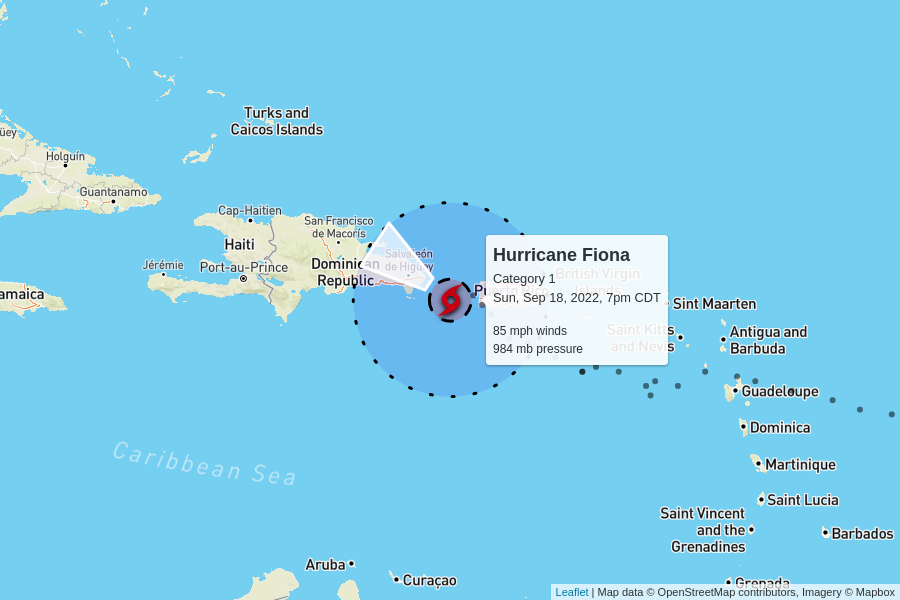
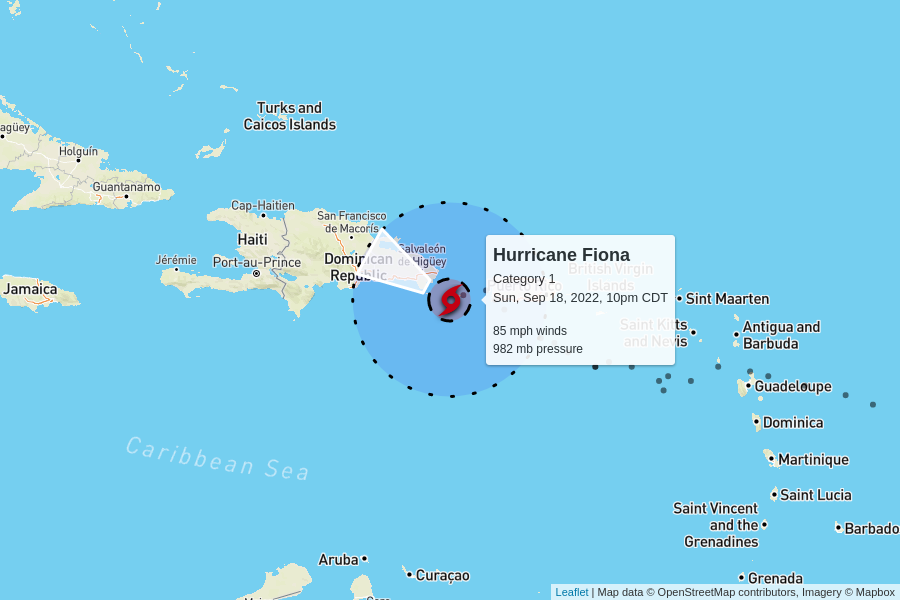
automatic update

diff --git a/docs/index.html b/docs/index.html
@@ -100,7 +100,7 @@
         <td colspan="6" class="storm category-1" >
           <h2>
             Hurricane Fiona - Category 1
-            <p class="updated">last updated <span data-time>2022-09-19T00:00:00.000Z</span></p>
+            <p class="updated">last updated <span data-time>2022-09-19T03:00:00.000Z</span></p>
           </h2>
         </td>
       </tr>
@@ -116,11 +116,11 @@
       <tr>
         <td class="spacer"></td>
         <td>85 mph</td>
-        <td>984 mb</td>
+        <td>982 mb</td>
         <td>
-          9 mph to the northwest
+          10 mph to the west-northwest
           <br/>
-          <span style="display: inline-block; font-size: 1.5em; transform: rotate(305deg);">↑</span>
+          <span style="display: inline-block; font-size: 1.5em; transform: rotate(300deg);">↑</span>
         </td>
         <td><a href="https://raw.githubusercontent.com/mgwalker/atlantic-hurricanes/main/data/csv/AL072022.csv">AL072022.csv</a></td>
         <td><a href="https://www.nhc.noaa.gov/archive/2022/FIONA.shtml?">NHC advisories</a></td>
